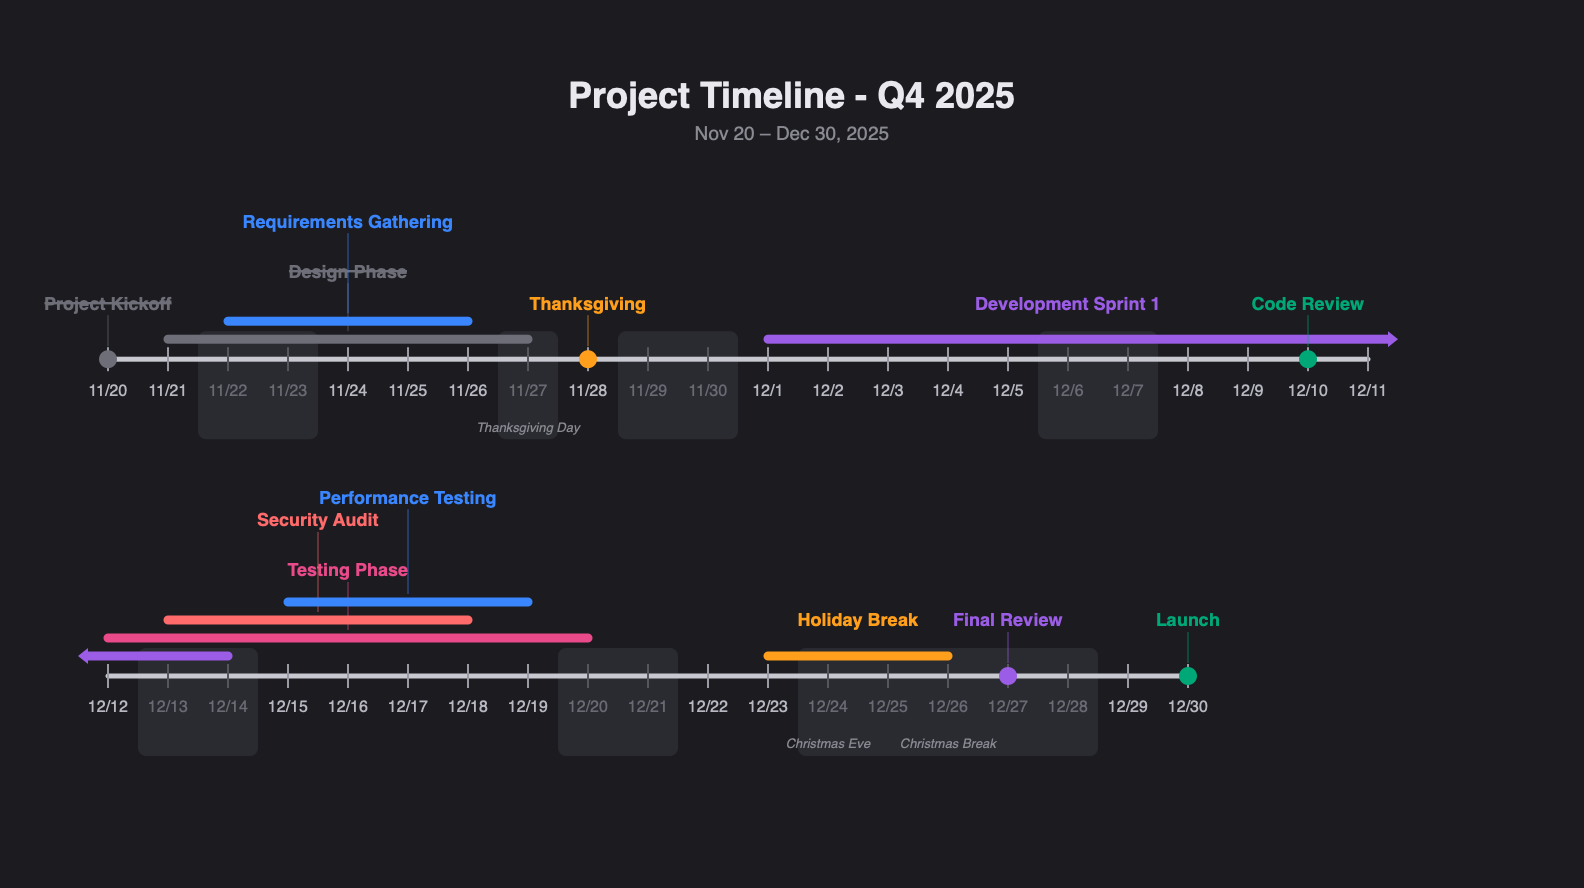
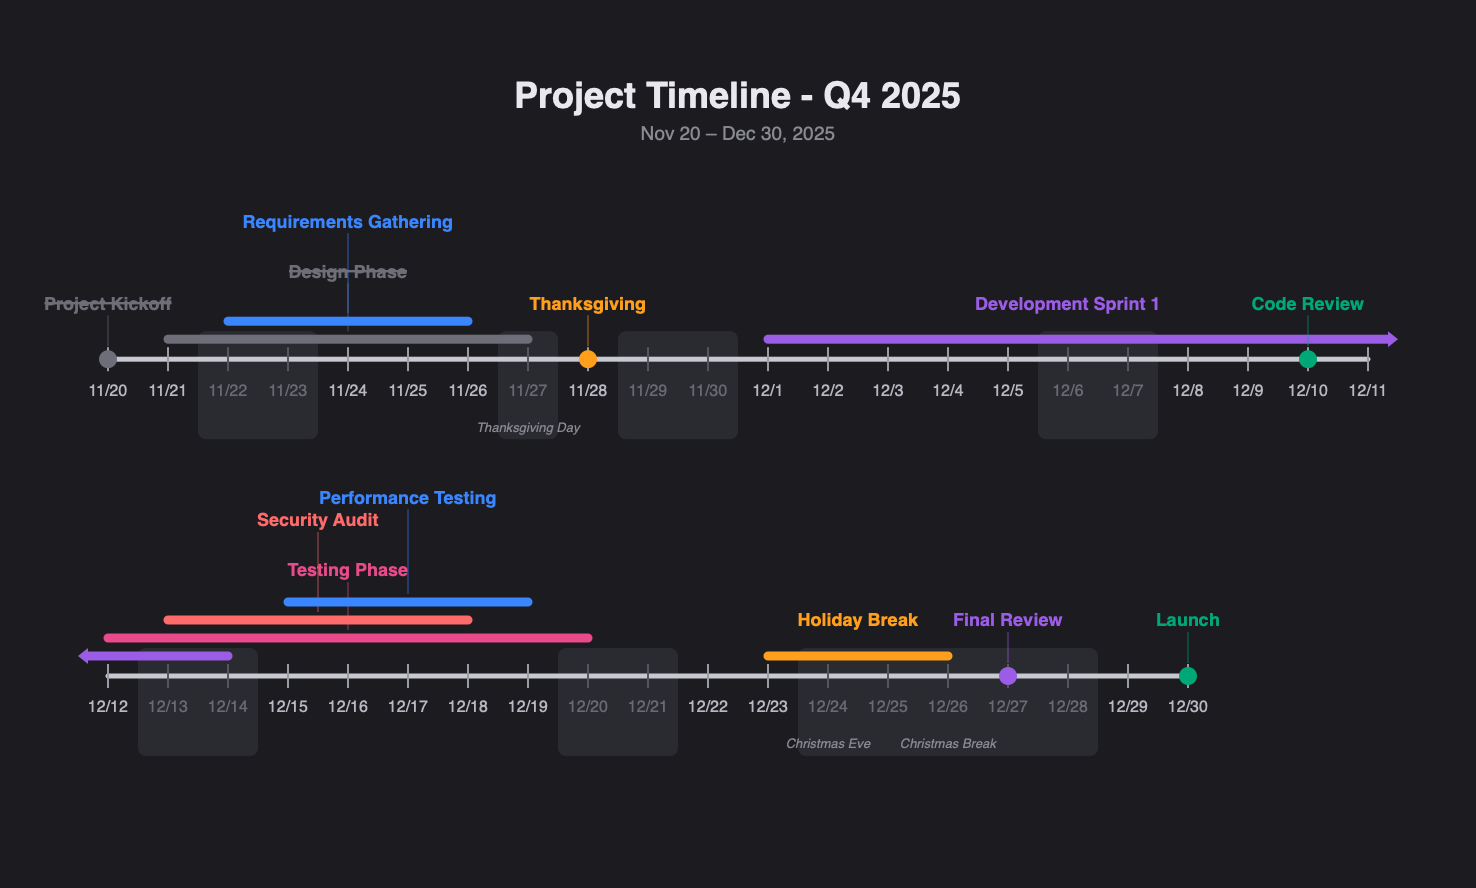
fix(app): center timeline horizontally in the preview/PNG
The continuous canvas was a fixed page width (792pt), but a row only
spans to its last tick (~630pt for 22 days), leaving more slack on the
right than the left so content sat left-of-center. Size the continuous
canvas to the widest row instead, giving equal margins. Golden images
regenerated. (PDF/paged layout keeps the fixed page width.)

diff --git a/TimelineApp/Sources/TimelineApp/TimelineRenderer.swift b/TimelineApp/Sources/TimelineApp/TimelineRenderer.swift
@@ -305,7 +305,16 @@ struct TimelineRenderer {
                         startDay: rowDay, numDays: days,
                         baselineY: totalHeight - offsets[index], pageIndex: 0))
             }
-            self.canvasSize = CGSize(width: Self.pageSize.width, height: totalHeight)
+            // Width snug to the widest row so the content is centered with
+            // equal margins — the fixed page width left extra slack on the
+            // right (a 22-day row spans 630pt but the page is 792pt wide)
+            let dw = dayWidth
+            let widestSpan = rowSpans.map {
+                CGFloat($0.1 - 1) * dw
+            }.max() ?? 0
+            let contentWidth = leftMargin + widestSpan + rightMargin
+            self.canvasSize = CGSize(
+                width: max(contentWidth, 200), height: totalHeight)
         }
         self.rows = built
     }